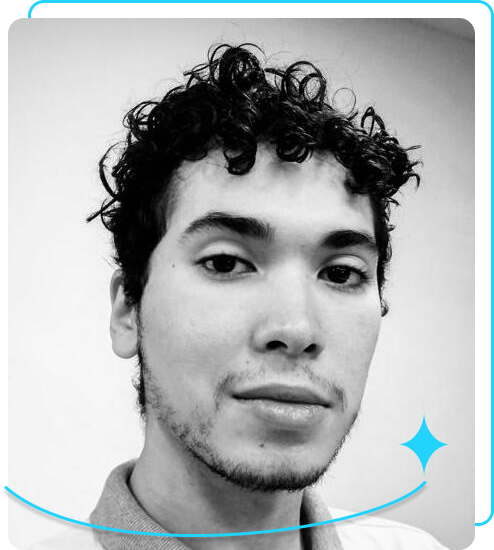
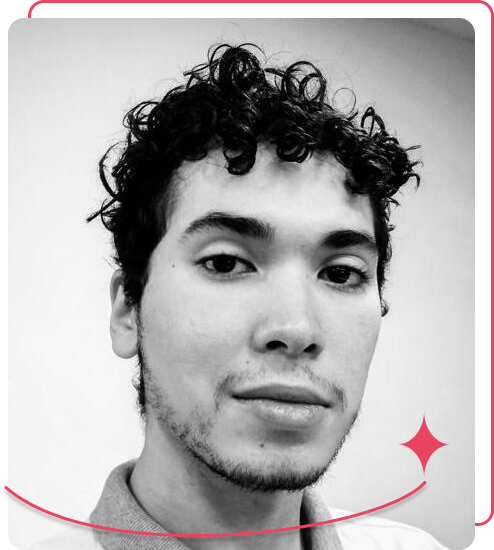
Fim do projeto (por hora)

diff --git a/Formacao em Front-end/Portfolio - Curso 4/index.html b/Formacao em Front-end/Portfolio - Curso 4/index.html
@@ -4,7 +4,7 @@
     <meta charset="UTF-8" />
     <meta http-equiv="X-UA-Compatible" content="ie=edge" />
     <meta name="viewport" content="width=device-width, initial-scale=1.0" />
-    <title>Portfólio - Curso 4</title>
+    <title>Portfólio</title>
     <link rel="stylesheet" href="./styles/reset.css" />
     <link rel="stylesheet" href="./styles/style.css" />
   </head>
@@ -13,7 +13,9 @@
       <nav class="cabecalho__menu">
         <a class="cabecalho__menu__link" href="index.html">home</a>
         <a class="cabecalho__menu__link" href="about.html">Sobre Mim</a>
+        <a class="cabecalho__menu__link" href="resume.html">Curriculo</a>
       </nav>
+    </header>
     </header>
     <main class="apresentacao">
       <section class="apresentacao__conteudo">
@@ -26,30 +28,30 @@
         <p class="apresentacao__conteudo__texto">
           Oi, sou o Lucas Porto, um desenvolvedor Front-end apaixonado por
           Javascript, HTML e CSS. Minha missão? Transformar ideias em código. Se
-          você é um pequeno negócio ou designer, vamos conversar! Juntos,
+          você é um designer ou possui um pequeno negócio, vamos conversar! Juntos,
           podemos criar algo incrível. 🚀
         </p>
         <div class="apresentacao__links">
           <h2 class="apresentacao__links__subtitulo">Acesse minhas redes:</h2>
           <a
-            class="apresentacao__links_navegacao"
+          class="apresentacao__links__navegacao"
             href="https://github.com/godhok"
           >
-            <img src="./Assets/github.png" />
+            <img class="apresentacao__links_navegacao__icones" src="./Assets/github.svg" />
             Github</a
           >
           <a
-            class="apresentacao__links_navegacao"
+            class="apresentacao__links__navegacao"
             href="https://www.instagram.com/vulgolindoso/"
           >
-            <img src="./Assets/instagram.png" />
+            <img class="apresentacao__links_navegacao__icones" src="./Assets/instagram.svg" />
             Instagram</a
           >
           <a
-            class="apresentacao__links_navegacao"
+            class="apresentacao__links__navegacao"
             href="https://www.linkedin.com/in/victor-lucas-porto-97a040135/"
           >
-            <img src="./Assets/linkedin.png" />
+            <img class="apresentacao__links_navegacao__icones" src="./Assets/linkedin.svg" />
             LinkedIn</a
           >
         </div>

diff --git a/Formacao em Front-end/Portfolio - Curso 4/resume.html b/Formacao em Front-end/Portfolio - Curso 4/resume.html
@@ -1,0 +1,50 @@
+<!DOCTYPE html>
+<html lang="pt-br">
+<head>
+  <meta charset="UTF-8">
+  <meta name="viewport" content="width=device-width, initial-scale=1.0">
+  <title>Curriculo</title>
+  <link rel="stylesheet" href="./styles/reset.css" />
+  <link rel="stylesheet" href="./styles/style.css" />
+</head>
+<body>
+  <header class="cabecalho">
+    <nav class="cabecalho__menu">
+      <a class="cabecalho__menu__link" href="index.html">home</a>
+      <a class="cabecalho__menu__link" href="about.html">Sobre Mim</a>
+      <a class="cabecalho__menu__link" href="resume.html">Curriculo</a>
+    </nav>
+  </header>
+  <main class="apresentacao">
+    <section class="apresentacao__conteudo">
+      <h1 class="apresentacao__conteudo__titulo">Experiência</h1>
+      <p class="apresentacao__conteudo__texto">
+        <strong class="titulo-destaque">Purinutre Produtos agropecuários (2021-2024) - </strong>
+        Analista de TI.
+      </p>
+      <h2 class="apresentacao__conteudo__titulo">Estudos</h2>
+      <p class="apresentacao__conteudo__texto">
+        <strong class="titulo-destaque">Alura Cursos</strong>
+        <ul class="apresentacao__conteudo__texto">
+          <li>HTML e CSS: ambientes de desenvolvimento, estrutura de arquivos e tags <a href="https://cursos.alura.com.br/user/victorlucasporto/course/html-css-ambiente-arquivos-tags/certificate">com certificado</a> </li>
+          <li>HTML e CSS: Classes, posicionamento e Flexbox <a href="https://cursos.alura.com.br/user/victorlucasporto/course/html-css-classes-posicionamento-flexbox/certificate">com certificado</a></li>
+          <li>HTML e CSS: cabeçalho, footer e variáveis CSS <a href="https://cursos.alura.com.br/user/victorlucasporto/course/html-css-cabecalho-footer-variaveis-css/certificate">com certificado</a></li>
+          <li>HTML e CSS: trabalhando com responsividade e publicação de projetos <a href="https://cursos.alura.com.br/user/victorlucasporto/course/html-css-responsividade-publicacao-projetos/certificate">com certificado</a></li>
+      </ul>
+        
+      </p>
+
+    </section>
+    <img
+    class="apresentacao__imagem"
+    src="./Assets/imagem.png"
+    alt="Foto do Lucas Porto"
+  />
+  </main>
+  <footer class="rodape">
+    <p>Desenvolvido por Lucas Porto.</p>
+  </footer>
+</body>
+  
+</body>
+</html>

diff --git a/Formacao em Front-end/Portfolio - Curso 4/styles/style.css b/Formacao em Front-end/Portfolio - Curso 4/styles/style.css
@@ -1,10 +1,17 @@
 @import url('https://fonts.googleapis.com/css2?family=Krona+One&family=Montserrat:wght@100..900&display=swap');
 
 :root {
+  /*  --cor-primaria: #1A1A2E;
+  --cor-secundaria: #EEE2DE;
+  --cor-terciaria: #22d4fd;
+  --cor-hover: #16213E;
+  
+  */
   --cor-primaria: #000000;
   --cor-secundaria: #f6f6f6;
-  --cor-terciaria: #22d4fd;
+  --cor-terciaria: #E94560;
   --cor-hover: #272727;
+
   --font-primaria: 'Krona One', sans-serif;
   --font-secundaria: 'Montserrat', sans-serif;
 }
@@ -34,7 +41,7 @@ body {
 
 .apresentacao {
   gap: 82px;
-  padding: 5% 15%;
+  padding: 4% 15%;
   display: flex;
   align-items: center;
   justify-content: space-between;
@@ -62,6 +69,11 @@ body {
   font-weight: 400;
 }
 
+.apresentacao__conteudo__texto a{
+  text-decoration: none;
+  color: var(--cor-terciaria);
+}
+
 .apresentacao__links {
   display: flex;
   flex-direction: column;
@@ -76,9 +88,10 @@ body {
   font-size: 1.5rem;
 }
 
-.apresentacao__links_navegacao {
+.apresentacao__links__navegacao {
   display: flex;
   justify-content: center;
+  align-items: center;
   gap: 16px;
   border: 2px solid var(--cor-terciaria);
   width: 50%;
@@ -88,12 +101,16 @@ body {
   font-weight: 600;
   padding-block: 21.5px;
   text-decoration: none;
-  color: #f6f6f6;
+  color: var(--cor-secundaria);
   font-family: var(--font-secundaria);
 }
 
-.apresentacao__links_link:hover {
+.apresentacao__links__navegacao:hover {
   background-color: var(--cor-hover);
+}
+
+.apresentacao__links_navegacao__icones {
+  width: 32px;
 }
 
 .apresentacao__imagem {
@@ -110,7 +127,6 @@ body {
 }
 
 @media (max-width: 1200px) {
-
   .cabecalho {
     padding: 10%;
   }
@@ -121,10 +137,14 @@ body {
 
   .apresentacao {
     flex-direction: column-reverse;
-    padding: 5% ;
+    padding: 5%;
   }
 
   .apresentacao__conteudo {
     width: auto;
+  }
+
+  .apresentacao__imagem {
+    width: 100%;
   }
 }

diff --git a/Formacao em Front-end/styles/style.css b/Formacao em Front-end/styles/style.css
@@ -110,7 +110,6 @@ body {
 }
 
 @media (max-width: 1200px) {
-
   .cabecalho {
     padding: 10%;
   }
@@ -121,14 +120,10 @@ body {
 
   .apresentacao {
     flex-direction: column-reverse;
-    padding: 5% ;
+    padding: 5%;
   }
 
   .apresentacao__conteudo {
     width: auto;
-  }
-
-  .apresentacao__imagem {
-    width: 100%;
   }
 }

diff --git a/Formacao em Front-end/Portfolio - Curso 4/about.html b/Formacao em Front-end/Portfolio - Curso 4/about.html
@@ -12,6 +12,7 @@
       <nav class="cabecalho__menu">
         <a class="cabecalho__menu__link" href="index.html">home</a>
         <a class="cabecalho__menu__link" href="about.html">Sobre Mim</a>
+        <a class="cabecalho__menu__link" href="resume.html">Curriculo</a>
       </nav>
     </header>
     <main class="apresentacao">
